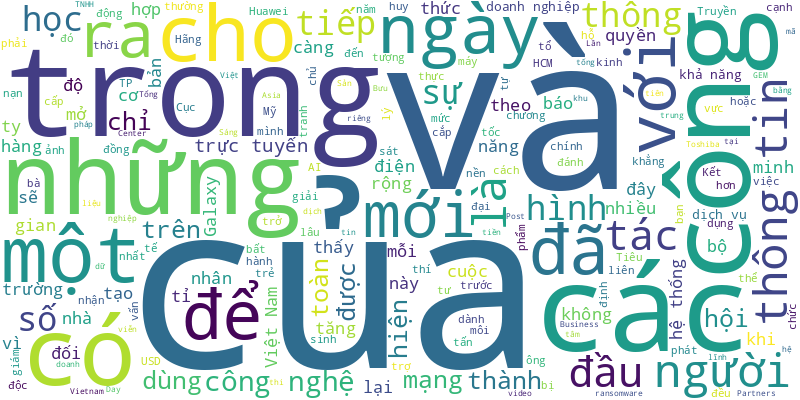
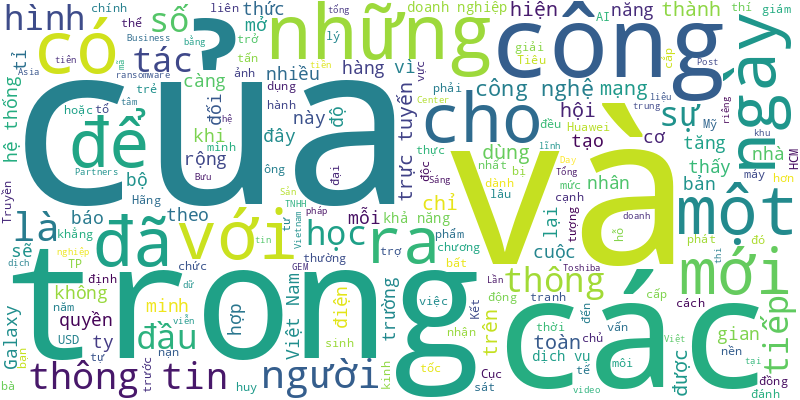
🍀 = 40%

diff --git a/README.md b/README.md
@@ -1,9 +1,24 @@
 # Tuoi Tre RSS 
 
 ## Giáo dục 
+- Một sinh viên đã cho ra mắt dự án Bộ khớp đa năng hỗ trợ cho người khuyết tật vận động chi trên - giúp người khiếm khuyết tay có thể sinh hoạt thuận lợi hơn.
+- Ai từng ra đề thi ngữ văn đều biết công việc này không hề đơn giản, càng những kỳ thi quan trọng càng khó. Ở nước ta đề thi xong được "soi", luận bàn sôi nổi.
+- TP.HCM là một trong những tỉnh, thành bắt đầu thực hiện nội dung giáo dục kỹ năng công dân số cho học sinh tiểu học từ năm học tới, sau một năm thí điểm.
+- Đã xảy ra rất nhiều điều đáng tiếc với thí sinh khi đi thi với chiếc điện thoại dù các em không muốn.
+- Chỉ có 8/3.714 học sinh đạt điểm 10 môn toán không chuyên trong kỳ thi vào lớp 10 Trường phổ thông Năng khiếu năm 2024.
+- Sở Giáo dục Gia Lai cho biết không tổ chức thi lại môn Ngữ văn vào lớp 10 trường huyên Hùng Vương, vì lỗi sai đề văn chỉ chiếm 5% tổng điểm.
+- PGS.TS Lê Đình Tùng, trưởng phòng quản lý đào tạo Trường đại học Y Hà Nội, cho biết ngành tâm lý học thuộc lĩnh vực khoa học xã hội và hành vi, do vậy nhà trường xét tuyển tổ hợp C00 (ngữ văn, lịch sử, địa lý) hoàn toàn phù hợp.
+- UBND huyện Chương Mỹ cho biết nữ sinh lớp 8 bị đánh, lột đồ, ép hút thuốc lá hiện bị sốc tâm lý và phải điều trị tại bệnh viện.
+- Trưa 10-6, Trường phổ thông Năng khiếu công bố điểm thi và điểm chuẩn tuyển sinh lớp 10 năm 2024.
+- Đại học Quốc gia TP.HCM công bố kết quả kỳ thi đánh giá năng lực đợt 2 năm 2024, thí sinh có điểm thi cao nhất là 1.116 và điểm thấp nhất là 289.
+- Tại nhiều trường đại học có những căn phòng đặc biệt giúp sinh viên xả stress, chia sẻ buồn vui.
+- Nước giặt, nước rửa chén của chàng sinh viên bách khoa đã được bán cho một số tiệm tạp hóa ở các tỉnh miền Tây, TP.HCM và Bình Định.
+- Mùa tuyển sinh năm nay, nhiều trường y bổ sung thêm các tổ hợp xét tuyển khác lạ, trong đó có môn ngữ văn.
+- Dự kiến điểm chuẩn vào lớp 10 công lập của Hà Nội có thể xê dịch ở khoảng 0,5 - 1 điểm, tùy theo nhóm trường.
+- Dự kiến 12h trưa nay (10-6) Trường phổ thông Năng khiếu sẽ công bố điểm thi và điểm chuẩn tuyển sinh lớp 10 năm 2024.
 - Ngày 9-6, Bộ Giáo dục và Đào tạo cho biết 8 học sinh đội tuyển Việt Nam dự Olympic Vật lý châu Á đều có giải, trong đó có một huy chương vàng.
 - Cơ quan chức năng tỉnh An Giang vẫn đang tích cực truy tìm, và chưa thấy tung tích nữ sinh đi thi lớp 10 mất tích tại TP Châu Đốc.
-- Bước đầu Công an huyện Chương Mỹ đã làm rõ 7 trường hợp liên quan đến vụ đánh, lột đồ, ép nữ sinh lớp 6 hút thuốc.
+- Bước đầu Công an huyện Chương Mỹ đã làm rõ 7 trường hợp liên quan đến vụ đánh, lột đồ, ép nữ sinh lớp 8 hút thuốc.
 - Giám đốc Sở Giáo dục và Đào tạo tỉnh Gia Lai trao đổi về hướng xử lý vụ đề thi tuyển sinh lớp 10 chuyên văn trích dẫn sai nguyên tác.
 - Khóc cho tuổi 15, cho một lần trải nghiệm, cho một ngã rẽ cuộc đời, đâu có gì là sai. Khóc để vơi nhẹ tất thảy những áp lực đã qua rồi bước tiếp.
 - Giám đốc Sở Giáo dục và Đào tạo Hà Nội Trần Thế Cương khẳng định thông tin lộ đề văn kỳ thi lớp 10 tại Hà Nội là không chính xác.
@@ -16,53 +31,38 @@
 - 'Thơ ca không làm ra lúa vàng, gạo trắng' khi vào đề thi chuyên văn bỗng thành 'Thơ ca không làm ra lúa gạo, vàng trắng' khiến mạng xã hội xôn xao.
 - Tổ chức tìm kiếm giải pháp sáng tạo cho những thách thức sức khỏe lớn nhất toàn cầu (The Trinity Challenge - TTC) vừa vinh danh chủ nhân Giải thưởng Lớn (Grand Prize).
 - Năm 2024, Trường đại học Y Hà Nội xét tuyển khối C00, D01, dùng kết quả thi đánh giá năng lực của Đại học Quốc gia Hà Nội xét tuyển.
-- Theo chủ tịch Trường đại học Fulbright Việt Nam, các sinh viên là những người có thể kiến tạo một cộng đồng đại học "không sợ hãi".
-- Mời bạn đọc theo dõi bài giải 24 mã đề môn tiếng Anh thi vào lớp 10 Hà Nội. Đề thi năm nay được nói vừa sức thí sinh.
-- Thí sinh nhận xét đề thi tiếng Anh tuyển sinh lớp 10 Hà Nội năm nay vừa sức, không đánh đố. Tuy nhiên giáo viên cho rằng sẽ ít thí sinh đạt điểm 10.
-- Phụ huynh học sinh Trung tâm Giáo dục thường xuyên An Giang nói bị ép buộc đóng tối thiểu 500.000 đồng xây mái che, nhà trường nói gì?
-- GS.TS Nguyễn Vũ Quốc Huy, hiệu trưởng Trường đại học Y Dược Huế, vừa được tổng thống Pháp trao tặng Huân chương Công trạng quốc gia, tước hiệp sĩ.
-- Một giáo viên toán tự do ở TP.HCM cho rằng thí sinh không làm được đề thi toán tuyển sinh lớp 10 ở TP.HCM vì học theo mô típ cũ.
-- Rất nhiều ý kiến tranh luận xung quanh bài viết 'Nhiều thí sinh khóc vì đề thi toán lớp 10, Sở Giáo dục TP.HCM nói gì?'.
-- Kỳ thi vào lớp 10 những năm gần đây là cuộc đua căng thẳng, áp lực hơn rất nhiều so với cuộc thi để tuyển vào đại học. Vì sao?
-- Sau khi hoàn thành 50% học phí, phụ huynh của Trường quốc tế Á Châu đã nhận lại học bạ bản photo và sẽ nhận bản chính khi trả hết 100% học phí.
-- Đề văn thi vào lớp 10 Hà Nội năm nay gây bất ngờ cho thí sinh ở tác phẩm Đồng chí nhưng được nhận xét dễ thở.
-- Đề thi văn lớp 10 Hà Nội ra tác phẩm Đồng chí khiến nhiều thí sinh bất ngờ, còn câu nghị luận là 'ứng xử thế nào trước mong đợi của người thân với chúng ta'.
-- Trung ương Hội Sinh viên Việt Nam vừa đến thăm, động viên các đội hình tình nguyện Tiếp sức mùa thi tại kỳ thi tuyển sinh vào lớp 10 ở Hà Nội.
-- Trưởng thành trong thời đại công nghệ, Gen Z - thế hệ bản địa kỹ thuật số - chọn học Digital Marketing như “cá gặp nước”.
-- Sáng nay 8-6, gần 106.000 thí sinh Hà Nội thi vào lớp 10 với môn thi đầu tiên là ngữ văn trong tiết trời dịu mát.
-- Theo nhận định của giáo viên, điểm chuẩn ở các trường THPT thuộc tốp giữa và tốp dưới sẽ không giảm hoặc có thể tăng lên chút ít.
 ![Edu](Edu.png)
 ## Thời Sự 
-- Nhằm giúp người bệnh trên xã đảo Thạnh An tiếp cận sớm nhất với y bác sĩ, cơ sở y tế, báo Tuổi Trẻ và Thành Đoàn TP.HCM phát động chương trình.
-- Nhân chuyến thăm và làm việc tại tỉnh Cao Bằng, tối 9-6-2024, Chủ tịch nước Tô Lâm đến thăm và tiếp thân mật nhân dân xóm Pác Bó, xã Trường Hà, huyện Hà Quảng.
-- Mùa hè, trẻ em có xu hướng được sử dụng thiết bị điện tử nhiều hơn. Các chuyên gia, bác sĩ cảnh báo việc sử dụng thiết bị điện tử không kiểm soát, thiếu môi trường giao lưu vận động sẽ dẫn đến trầm cảm, lo âu, căng thẳng...
-- Hôm nay 10-6, thời tiết cả nước có mưa về chiều tối, Bắc Bộ có nơi mưa rất to; Nam Bộ mưa to; Trung Bộ ngày nắng, chiều mưa rào.
-- Một số tin tức đáng chú ý: Lãnh đạo TP.HCM yêu cầu dẹp 'xe dù, bến cóc'; Bất động sản bắt đầu ấm lên; Tiêu thụ điện trong tháng 6 có thể vượt mọi kỷ lục...
-- Căn nhà trên đường Bắc Hải, phường 15, quận 10, TP.HCM bất ngờ bốc cháy khiến nhiều người mắc kẹt, lực lượng cảnh sát PCCC đã nỗ lực cứu được 5 người.
-- Công an TP Buôn Ma Thuột (Đắk Lắk) đã ra quyết định khởi tố cô gái lái xế hộp tông vào xe đối phương sau mâu thuẫn trên bàn nhậu.
-- Người dân, du khách TP.HCM đã chen kín hai bờ sông Sài Gòn để ngắm nhìn loạt chương trình biểu diễn trên sông của mô tô nước kết hợp ván phản lực, Flyboard, thuyền Sailing và 1.100 drone thắp sáng bầu trời.
-- Nhân chuyến thăm, đoàn công tác liên ngành về Việt Nam tham gia gìn giữ hòa bình Liên Hiệp Quốc sẽ tìm hiểu khả năng tiếp tục triển khai các cá nhân, đơn vị của Việt Nam tham gia hoạt động gìn giữ hòa bình Liên Hiệp Quốc.
-- Nhóm khách Tây với 6 người do anh Trần Văn Quân hướng dẫn đã có trải nghiệm "kẹt" 4 tiếng trên con đường giữa lưng đèo Mã Pì Lèng (Hà Giang), do mưa lũ cuồn cuộn và sạt lở chiều 9-6.
-- Ngày 9-6, Bộ Giáo dục và Đào tạo cho biết 8 học sinh đội tuyển Việt Nam dự Olympic Vật lý châu Á đều có giải, trong đó có một huy chương vàng.
-- Có 29 kiến nghị được UBND TP.HCM chỉ đạo tháo gỡ 2 lần nhưng các đơn vị vẫn chậm trễ, chưa giải quyết dứt điểm, làm chậm tiến độ giải ngân đầu tư công.
-- Phó chủ tịch UBND TP.HCM Bùi Xuân Cường vừa chỉ đạo các đơn vị khẩn trương tháo gỡ vướng mắc, sớm khép kín vành đai 2 TP.HCM.
-- Sau những cơn mưa đầu mùa, cây cối và thảm cỏ thực vật tự nhiên ở rừng Phú Quốc bắt đầu đâm chồi nảy lộc. Suối Tiên, suối Đá Bàn hoang sơ nên du khách và người dân địa phương rất thích đến chơi.
-- Chủ đầu tư Hòa Bình Green Đà Nẵng vừa có công văn gửi chính quyền liên quan việc cấp giấy chứng nhận sở hữu căn hộ (sổ hồng). Thông báo này cũng được gửi đến khách hàng.
-- Tuyến metro Bến Thành - Tham Lương đã giải phóng được 95% mặt bằng, phần còn lại sẽ hoàn thành và bàn giao cho chủ đầu tư trong tháng 6-2024.
-- Theo Luật Căn cước có hiệu lực từ ngày 1-7, người dân được đi cấp đổi căn cước khi xác định lại giới tính hoặc chuyển giới theo quy định của pháp luật.
-- Cơ quan chức năng tỉnh An Giang vẫn đang tích cực truy tìm, và chưa thấy tung tích nữ sinh đi thi lớp 10 mất tích tại TP Châu Đốc.
-- Một con vích mẹ bơi từ Malaysia sang Côn Đảo đẻ hơn 100 trứng vích và đã nở được 87 vích con. Số vích con này được thả về tự nhiên.
-- Dự báo từ chiều tối nay đến sáng 10-6, các tỉnh Bắc Bộ tiếp tục có mưa vừa, mưa to, có nơi trên 120-200mm.
-- Các nhà khoa học đến từ nhiều quốc gia vừa công bố một loài mới đặc hữu, cũng là một chi thực vật mới, ở núi đá vôi tỉnh Quảng Trị.
-- Sạt lở vùng đệm U Minh Thượng vẫn còn diễn biến phức tạp, địa phương đã hỗ trợ di dời 116 nhà dân ở vùng có nguy cơ ảnh hưởng cao.
-- Gần nửa năm trôi qua, hàng loạt dự án tại TP.HCM vẫn chưa giải ngân đồng nào do vướng mắc thủ tục ở các sở ngành, địa phương.
-- Cầu 110 mới nối giữa hai tỉnh Gia Lai và Đắk Lắk bỏ hoang gần 6 năm nay do... vẫn chưa giải phóng mặt bằng.
-- Phó chủ tịch UBND TP.HCM chỉ đạo các đơn vị đẩy nhanh tiến độ các dự án trọng điểm, trong đó có cầu Thủ Thiêm 4, cầu Cần Giờ.
-- Công an đang phát thông báo truy tìm tài xế Bùi Ngọc Hải để điều tra vụ tai nạn giao thông khiến 3 người tử vong.
-- Mạng lưới này sẽ chăm sóc người bệnh ung thư từ lúc tầm soát sớm, chẩn đoán, điều trị cho đến chăm sóc giai đoạn cuối.
-- Một du khách đi hướng Đà Lạt - TP.HCM qua đèo Bảo Lộc (quốc lộ 20, địa phận huyện Đạ Huoai, tỉnh Lâm Đồng) đã bị xe khách lấn làn tông chết.
-- Ô tô 7 chỗ tự lật nhiều vòng trên cao tốc Vân Đồn - Móng Cái dưới trời mưa lớn. Nam tài xế văng khỏi xe, thiệt mạng tại chỗ.
-- Mưa lớn kéo dài từ đêm 8 đến ngày 9-6 khiến hàng loạt khu vực tại Hải Phòng, Quảng Ninh ngập cả mét, việc di chuyển gần như tê liệt.
+- Chủ tịch Quốc hội Trần Thanh Mẫn nêu rõ công tác nhân sự tại đợt 1 của kỳ họp thứ 7 đã được tiến hành kịp thời, đúng quy định, quy trình với số phiếu bầu rất cao.
+- Chủ đầu tư tòa nhà câu lạc bộ golf Đồi Cù Đà Lạt sẽ tháo dỡ toàn bộ diện tích công trình xây dựng trái phép hơn 20.000m2.
+- Cảnh sát kiểm tra chung cư cao cấp trên địa bàn phường Thảo Điền, TP Thủ Đức bắt quả tang người đàn ông Hàn Quốc và bạn gái đang sử dụng ma túy.
+- Chủ tịch UBND huyện Cần Giờ Nguyễn Văn Hồng cho biết lãnh đạo và nhân dân huyện rất vui mừng khi báo Tuổi Trẻ và Thành Đoàn TP.HCM phát động chương trình: "Tàu cấp cứu đường thủy cho Cần Giờ".
+- Lũ lớn từ Hà Giang tràn về nên từ 8h sáng 11-6, Nhà máy thủy điện Tuyên Quang mở 1 cửa xả đáy (hay còn gọi xả lũ) để đảm bảo an toàn và tránh việc xả cấp tập khi lũ về hồ tăng đột biến trong thời gian tới.
+- Một số tin tức đáng chú ý: Sáng nay, khai mạc phiên họp thứ 34 của Ủy ban Thường vụ Quốc hội; Bộ Tài chính khuyến cáo việc giả mạo văn bản, con dấu và website của bộ; UOB dự báo Việt Nam tăng trưởng 6% quý 2-2024...
+- Hôm nay 11-6, thời tiết Bắc Bộ mưa đã giảm so với những ngày trước. Tuy nhiên sáng sớm vẫn có vài nơi mưa rào đến mưa to.
+- "Hành động của thượng úy Nguyễn Mạnh Tường tuy là bình dị thường ngày của lực lượng công an nhưng thể hiện tinh thần trách nhiệm cao trước Đảng, Nhà nước và Nhân dân", theo Bộ trưởng Bộ Công an Lương Tam Quang.
+- Chủ tịch nước Tô Lâm đề nghị Cao Bằng cần thống nhất, đồng lòng, hành động quyết liệt, khơi dậy mạnh mẽ khát vọng vươn lên.
+- Từ khi triển khai thay thế Đội công binh số 1, cán bộ, nhân viên Đội công binh số 2 đã có rất nhiều cố gắng và đạt được những thành tích đáng khích lệ trong việc tham gia các hoạt động gìn giữ hòa bình Liên Hiệp Quốc.
+- Trong thời gian 3 tháng sau khi san hô bị tẩy trắng, cần giảm tải các hoạt động như khai thác thủy sản, dịch vụ du lịch bơi ngắm, xả thải từ đất liền...
+- Một nhiếp ảnh gia về thiên nhiên, môi trường đã lên tiếng trên mạng xã hội về chuyện một người cắt tổ chim để thực hiện bộ ảnh nghệ thuật, đăng tải ở tạp chí địa phương.
+- Đó là yêu cầu được Bộ trưởng Bộ Tài nguyên và Môi trường Đặng Quốc Khánh nhấn mạnh tại lễ phát động quốc gia Tuần lễ biển và hải đảo Việt Nam, Tháng hành động vì môi trường.
+- Phát hiện một nhóm người bị dòng nước lũ cuốn khi đang di chuyển, thượng úy Nguyễn Mạnh Tường nhanh chóng lao xuống, cứu được 2 người.
+- Ba bộ Nông nghiệp và Phát triển nông thôn, Tài nguyên và Môi trường, Giao thông vận tải phối hợp các đơn vị liên quan làm rõ nguyên nhân lúa chết tại Hậu Giang.
+- Công ty Hoàng Gia ĐL, chủ đầu tư công trình trái phép tòa nhà câu lạc bộ golf Đồi Cù Đà Lạt, cho hay sẽ tiến hành tháo dỡ công trình từ ngày 11-6.
+- Sau khi thuyền bị lật, ông K. mất tích, đến nay cơ quan chức năng đã tìm thấy thi thể gần khu vực thuyền chìm.
+- Hội đồng thi tuyển sẽ đánh giá, xếp hạng và trao thưởng 2 tỉ đồng cho giải nhất ý tưởng quy hoạch chung đô thị sân bay Long Thành và vùng phụ cận.
+- Cảnh sát hình sự bắt nhóm chuyên trộm xe máy (chủ yếu Honda Wave Alpha), sau đó đưa qua Lào tiêu thụ.
+- Dự báo cuối tuần này, miền Bắc khả năng xuất hiện một đợt mưa vừa, mưa to trên diện rộng, trong đó mưa lớn tập trung ở vùng núi và trung du.
+- Nam thanh niên ở Vĩnh Long được chủ tiệm kêu đi bán vàng, song người này về báo bị xịt hơi cay cướp mất tiền.
+- Nhiều bạn đọc tới báo Tuổi Trẻ hoặc chuyển khoản quyên góp tiền ủng hộ chương trình "Tàu cấp cứu đường thủy cho Cần Giờ".
+- Ngày 10-6, Bộ Quốc phòng tổ chức hội nghị tổng kết thực hiện Luật Sĩ quan Quân đội nhân dân Việt Nam (gọi tắt là Luật Sĩ quan).
+- Sở Giáo dục Gia Lai cho biết không tổ chức thi lại môn Ngữ văn vào lớp 10 trường huyên Hùng Vương, vì lỗi sai đề văn chỉ chiếm 5% tổng điểm.
+- Thông tin trên được lãnh đạo Hà Nội cung cấp tại hội nghị sơ kết 1 năm tháo gỡ "điểm nghẽn" trong triển khai Đề án 06 sáng 10-6.
+- Cục trưởng Cục Thuế tỉnh Bình Định vừa gửi công văn đề nghị Bộ Công an tạm hoãn xuất cảnh với 4 giám đốc doanh nghiệp nợ thuế.
+- Cơ quan chức năng các địa phương vào cuộc xác minh xử lý những người liên quan sau bài viết 'Cảnh báo nạn xe ôm cát cứ bến bãi' đăng trên Tuổi Trẻ.
+- Toàn tỉnh Kiên Giang hiện có 2.311 người nghiện và sử dụng trái phép ma túy, trong đó số người nghiện dưới 30 tuổi chiếm 56,6%.
+- Công an TP Long Xuyên, tỉnh An Giang vượt 200km bắt giữ tài xế gây tai nạn chết người trên tuyến tránh TP Long Xuyên.
+- Ông Lê Phỉ, người được mọi người yêu mến gọi là 'nhà Đà Lạt học', vừa qua đời ở tuổi 97. Ông là người có dấu ấn lớn trong suốt hành trình phát triển của Đà Lạt.
 ![New](News.png)
 ## Nhịp sống số 
 - Lần đầu tiên, một cuộc thi được dành riêng cho các tác phẩm ảnh và video dành cho lĩnh vực công nghệ.
